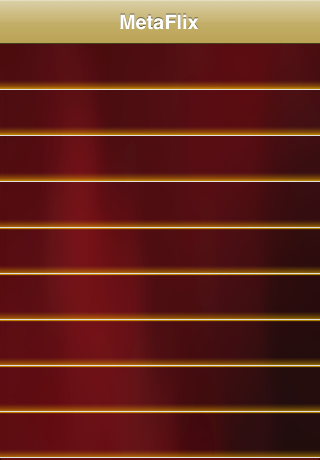
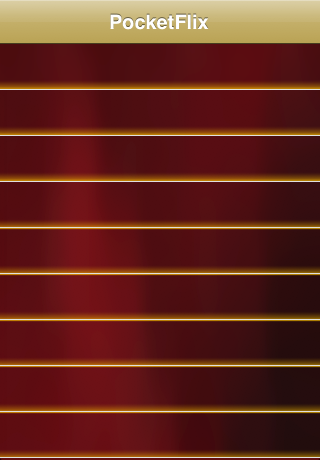
updating background image and titles

Changed region(s): [[0.3438, 0.0304, 0.6562, 0.0609]]

diff --git a/PocketFlix/iPhone/Classes/CreditsViewController.m b/PocketFlix/iPhone/Classes/CreditsViewController.m
@@ -61,7 +61,7 @@ NSComparisonResult compareLanguageCodes(id code1, id code2, void* context) {
 - (id) initWithModel:(Model*) model_ {
     if (self = [super initWithStyle:UITableViewStyleGrouped]) {
         self.model = model_;
-        self.title = NSLocalizedString(@"About", nil);
+        self.title = [Application nameAndVersion];
 
         NSMutableDictionary* dictionary = [NSMutableDictionary dictionary];
         [dictionary setObject:@"Michal Štoppl"      forKey:@"cs"];

diff --git a/PocketFlix/iPhone/Classes/NetflixViewController.m b/PocketFlix/iPhone/Classes/NetflixViewController.m
@@ -68,7 +68,7 @@ typedef enum {
 - (id) initWithNavigationController:(NetflixNavigationController*) navigationController_ {
     if (self = [super initWithStyle:UITableViewStylePlain]) {
         self.navigationController = navigationController_;
-        self.title = [Application nameAndVersion];
+        self.title = [Application name];
         
         self.tableView.rowHeight = ROW_HEIGHT;
         self.navigationItem.leftBarButtonItem =
